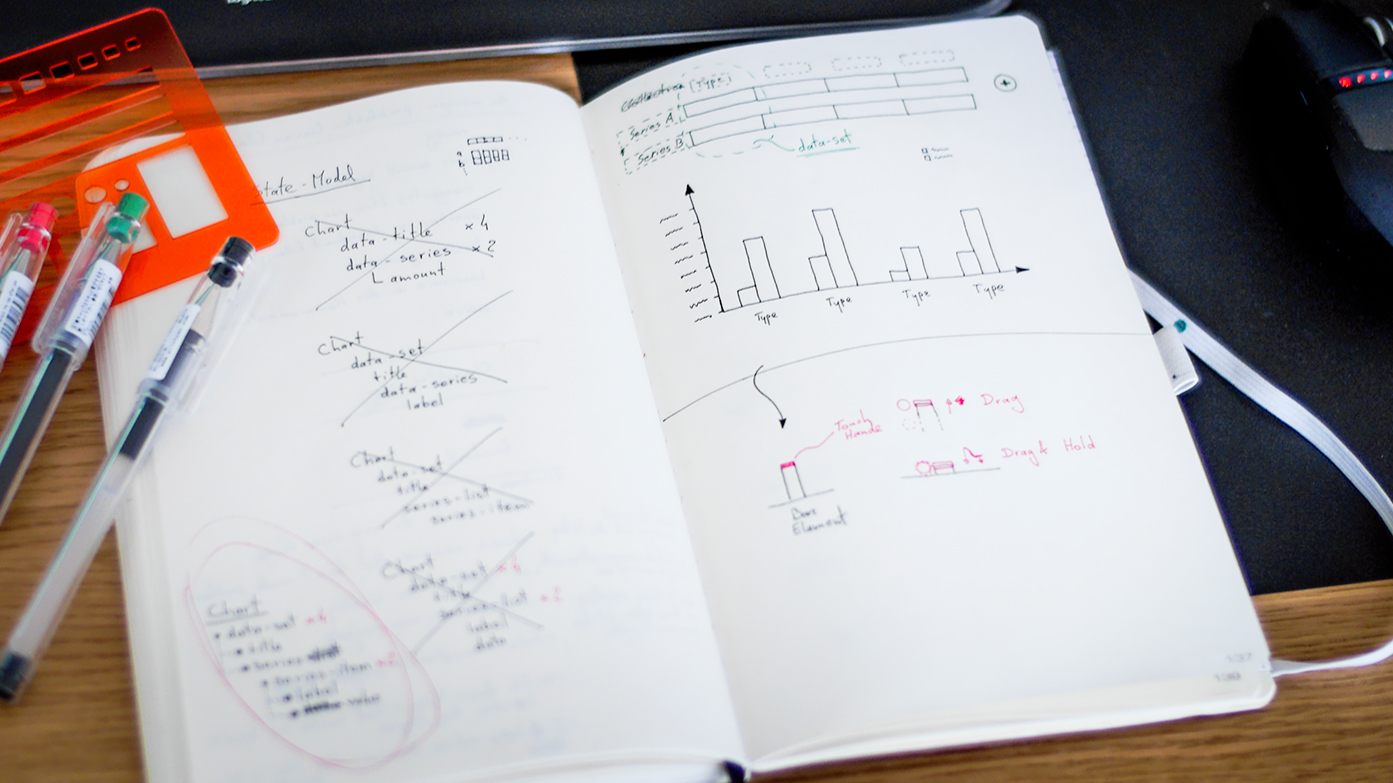
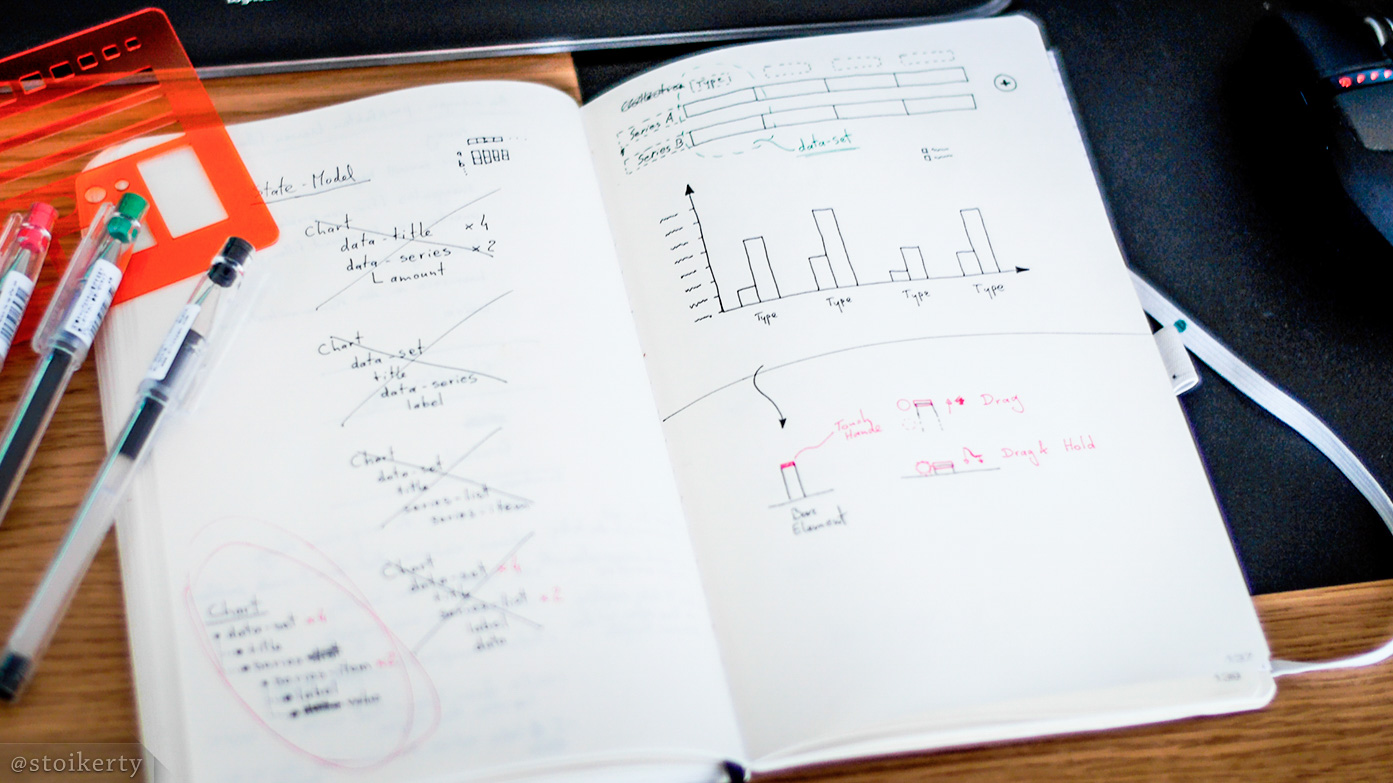
add another picture, update readme

diff --git a/README.md b/README.md
@@ -9,6 +9,8 @@ There was quite a bit of experimenting and trial & error before I got this one w
 
 ![alt tag](https://github.com/stoikerty/ampersand-touch-charts/blob/master/footage/Slide-01.jpg)
 
+![alt tag](https://github.com/stoikerty/ampersand-touch-charts/blob/master/footage/Slide-02.jpg)
+
 ---------------------
 
 Technical details: How to use this folder
